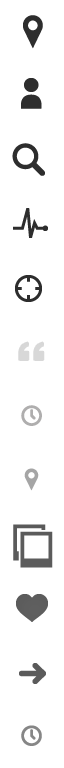
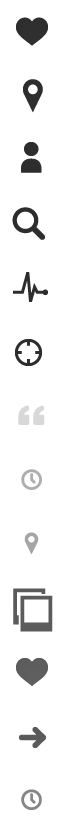
Fancy topbars for image streams

Changed region(s): [[0.1875, 0.0938, 0.8438, 0.9062], [0.25, 0.0, 0.75, 0.0625], [0.3125, 0.9375, 0.6562, 1.0]]

diff --git a/css/theme.css b/css/theme.css
@@ -225,6 +225,17 @@ hr {
   width: 32px;
   background-position: -63px 1px;
 }
+.image-streams {
+  list-style: none;
+  padding: 0;
+  margin: 0;
+  margin-bottom: 8px;
+  margin-top: -8px;
+}
+.image-streams .image-stream {
+  list-style: none;
+  padding: none;
+}
 /*
 * JQuery Mob - Custom 
 *   Some basics
@@ -554,6 +565,9 @@ input.ui-input-text, textarea.ui-input-text {
   background: none;
   line-height: 32px;
 }
+.ui-bar .ui-btn-text {
+  display: block;
+}
 .ui-bar .ui-btn-right {
   position: absolute;
   right: 4px;
@@ -566,6 +580,12 @@ input.ui-input-text, textarea.ui-input-text {
   -moz-border-radius-topright: 8px;
   -webkit-border-top-right-radius: 8px;
   border-top-right-radius: 8px;
+  -moz-border-radius-bottomleft: 0px;
+  -webkit-border-bottom-left-radius: 0px;
+  border-bottom-left-radius: 0px;
+  -moz-border-radius-bottomright: 0px;
+  -webkit-border-bottom-right-radius: 0px;
+  border-bottom-right-radius: 0px;
 }
 .ui-bar.top-left-arrow {
   -moz-border-radius-topleft: 8px;
@@ -574,6 +594,35 @@ input.ui-input-text, textarea.ui-input-text {
   -moz-border-radius-topright: 8px;
   -webkit-border-top-right-radius: 8px;
   border-top-right-radius: 8px;
+  -moz-border-radius-bottomleft: 0px;
+  -webkit-border-bottom-left-radius: 0px;
+  border-bottom-left-radius: 0px;
+  -moz-border-radius-bottomright: 0px;
+  -webkit-border-bottom-right-radius: 0px;
+  border-bottom-right-radius: 0px;
+  text-align: left;
+}
+.ui-bar.top-left-arrow .ui-icon {
+  right: -2px;
+}
+.ui-bar.top-left-arrow .ui-btn-text {
+  padding-left: 20px;
+}
+.ui-bar.top-left-arrow .extra-icons {
+  right: auto;
+  left: -8px;
+  top: -7px;
+  margin: 0;
+  height: 32px;
+  width: 32px;
+}
+.ui-bar.top-left-arrow .image-time {
+  position: relative;
+  padding-left: 20px;
+  color: #666666;
+}
+.ui-bar.top-left-arrow .image-time .ui-icon-clock {
+  top: -9px;
 }
 .ui-bar.bottom-centered-arrow {
   -moz-border-radius-bottomleft: 8px;
@@ -582,6 +631,54 @@ input.ui-input-text, textarea.ui-input-text {
   -moz-border-radius-bottomright: 8px;
   -webkit-border-bottom-right-radius: 8px;
   border-bottom-right-radius: 8px;
+}
+.arrow-right {
+  position: absolute!important;
+  right: 0!important;
+  left: auto!important;
+}
+.extra-icons {
+  height: 32px;
+  width: 32px;
+}
+.extra-icons .ui-icon-heart, .extra-icons.ui-icon-heart {
+  background-position: 0 0px;
+}
+.extra-icons .ui-icon-venue, .extra-icons.ui-icon-venue {
+  background-position: 0 -32px;
+}
+.extra-icons .ui-icon-clock, .extra-icons.ui-icon-clock {
+  background-position: 0 -64px;
+}
+.extra-icons .ui-icon-search, .extra-icons.ui-icon-search {
+  background-position: 0 -96px;
+}
+.extra-icons .ui-icon-activity, .extra-icons.ui-icon-activity {
+  background-position: 0 -128px;
+}
+.extra-icons .ui-icon-location, .extra-icons.ui-icon-location {
+  background-position: 0 -160px;
+}
+.extra-icons .ui-icon-quote, .extra-icons.ui-icon-quote {
+  background-position: 0 -192px;
+}
+.extra-icons .ui-icon-clocksmall, .extra-icons.ui-icon-clocksmall {
+  background-position: 0 -224px;
+}
+.extra-icons .ui-icon-venuesmall, .extra-icons.ui-icon-venuesmall {
+  background-position: 0 -256px;
+}
+.extra-icons .ui-icon-feed, .extra-icons.ui-icon-feed {
+  background-position: 0 -288px;
+}
+.extra-icons .ui-icon-favs, .extra-icons.ui-icon-favs {
+  background-position: 0 -320px;
+}
+.extra-icons .ui-icon-link, .extra-icons.ui-icon-link {
+  background-position: 0 -352px;
+}
+.extra-icons .ui-icon-clock, .extra-icons.ui-icon-clock {
+  background-position: 0 -384px;
 }
 .ui-navbar {
   margin: -8px -8px 0 -8px;
@@ -1010,7 +1107,7 @@ input.ui-input-text, textarea.ui-input-text {
 .image-item-block .image-description .ui-icon-quote {
   display: inline-block;
   height: 15px;
-  background-position: -6px -168px;
+  background-position: -6px -200px;
 }
 .image-item-block .image-description .goto-spot {
   color: #999999;
@@ -1387,6 +1484,11 @@ input.ui-input-text, textarea.ui-input-text {
 * @uploading - PAGE 
 */.upload-progress-header {
   padding: 8px;
+  height: 108px;
+  overflow: hidden;
+  -moz-box-shadow: inset 5px -16px 26px rgba(0, 0, 0, 0.2);
+  -webkit-box-shadow: inset 5px -16px 26px rgba(0, 0, 0, 0.2);
+  box-shadow: inset 5px -16px 26px rgba(0, 0, 0, 0.2);
 }
 .upload-progress-header .upload-image-thumb-gall {
   position: absolute;
@@ -1406,7 +1508,7 @@ input.ui-input-text, textarea.ui-input-text {
 .upload-progress-header .upload-info-block .ui-icon-quote {
   display: inline-block;
   height: 15px;
-  background-position: -6px -168px;
+  background-position: -6px -200px;
   width: 20px;
 }
 .upload-progress-header .upload-info-block .upload-image-venue a {

diff --git a/css/theme.less b/css/theme.less
@@ -177,7 +177,19 @@ hr{
     }
 }
 
-
+.image-streams{
+    list-style: none;
+    padding: 0;
+    margin: 0;
+    margin-bottom: 8px;
+    margin-top: -8px;
+    .image-stream{
+        list-style: none;
+        padding: none;
+    }
+   
+    
+}
 
 
 /*
@@ -538,7 +550,9 @@ fieldset.ui-controlgroup{
         background: none;
         line-height: 32px;
     }
-    
+    .ui-btn-text{
+        display: block;
+    }
     
     .ui-btn-right{
         position: absolute;
@@ -547,17 +561,67 @@ fieldset.ui-controlgroup{
     }
     
     &.top-no-arrow{
-        .corner-top (@corner-page-element-rounded); 
+        .corner-top (@corner-page-element-rounded);
+        .corner-bottom (@corner-not-rounded); 
     }
     &.top-left-arrow{
         .corner-top (@corner-page-element-rounded); 
+        .corner-bottom (@corner-not-rounded);
+        text-align: left;
+        .ui-icon {
+            right: -2px;
+        }
+        .ui-btn-text{
+            padding-left: 20px;
+        }
+        .extra-icons{
+            right: auto;
+            left: -8px;
+            top: -7px;
+            margin: 0;
+            height: @gfx-extra-icon-sprite-grid;
+            width: @gfx-extra-icon-sprite-grid;
+        }
+        
+        .image-time{
+            position: relative;
+            padding-left: 20px;
+            color: @color-txt-medium-on-light;
+            .ui-icon-clock{
+                top: -9px;
+            }
+        }
     }
     &.bottom-centered-arrow{
         .corner-bottom (@corner-page-element-rounded); 
     }
 }
 
+.arrow-right{
+    position: absolute!important;
+    right: 0!important;
+    left: auto!important;
+}
 
+.extra-icons{
+    height: @gfx-extra-icon-sprite-grid;
+    width: @gfx-extra-icon-sprite-grid;
+
+    .ui-icon-heart,&.ui-icon-heart{background-position: @ei-offset-x @gfx-extra-icon-sprite-heart-y;}
+    .ui-icon-venue,&.ui-icon-venue{background-position: @ei-offset-x @gfx-extra-icon-sprite-venue-y;}
+    .ui-icon-clock,&.ui-icon-clock{background-position: @ei-offset-x @gfx-extra-icon-sprite-person-y;}
+    .ui-icon-search,&.ui-icon-search{background-position: @ei-offset-x @gfx-extra-icon-sprite-search-y;}
+    .ui-icon-activity,&.ui-icon-activity{background-position: @ei-offset-x @gfx-extra-icon-sprite-activity-y;}
+    .ui-icon-location,&.ui-icon-location{background-position: @ei-offset-x @gfx-extra-icon-sprite-location-y;}
+    .ui-icon-quote,&.ui-icon-quote{background-position: @ei-offset-x @gfx-extra-icon-sprite-quote-y;}
+    .ui-icon-clocksmall,&.ui-icon-clocksmall{background-position: @ei-offset-x @gfx-extra-icon-sprite-clocksmall-y;}
+    .ui-icon-venuesmall,&.ui-icon-venuesmall{background-position: @ei-offset-x @gfx-extra-icon-sprite-venuesmall-y;}
+    .ui-icon-feed,&.ui-icon-feed{background-position: @ei-offset-x @gfx-extra-icon-sprite-feed-y;}
+    .ui-icon-favs,&.ui-icon-favs{background-position: @ei-offset-x @gfx-extra-icon-sprite-favs-y;}
+    .ui-icon-link,&.ui-icon-link{background-position: @ei-offset-x @gfx-extra-icon-sprite-link-y;}
+    .ui-icon-clock, &.ui-icon-clock{background-position: @ei-offset-x @gfx-extra-icon-sprite-clock-y;}
+    
+}
 
 .ui-navbar{
     margin: -@padding-page-inset -@padding-page-inset 0 -@padding-page-inset;
@@ -981,7 +1045,7 @@ fieldset.ui-controlgroup{
         .ui-icon-quote{
             display: inline-block;
             height: @txt-size-base;
-            background-position: -6px -168px;
+            background-position: -6px @gfx-extra-icon-sprite-quote-y - 8;
         }
     
         .goto-spot{
@@ -1367,6 +1431,9 @@ fieldset.ui-controlgroup{
 
 .upload-progress-header{
     padding: @padding-page-inset;
+    height: 108px;
+    overflow:hidden;
+    .box-shadow(inset 5px -16px 26px rgba(0, 0, 0, 0.2));
    
     .upload-image-thumb-gall{
         position: absolute;
@@ -1387,7 +1454,8 @@ fieldset.ui-controlgroup{
          .ui-icon-quote{
              display: inline-block;
              height: @txt-size-base;
-             background-position: -6px -168px;
+             background-position: -6px @gfx-extra-icon-sprite-quote-y - 8;
+             
              width: 20px;
          }
          

diff --git a/css/sprites.less b/css/sprites.less
@@ -122,15 +122,20 @@
 @gfx-extra-icon-sprite-grid: 32px;
 
 /* Vertical Layout of Icons */
-@gfx-extra-icon-sprite-venue-y:         -0 * @gfx-extra-icon-sprite-grid; 
-@gfx-extra-icon-sprite-person-y:        -1 * @gfx-extra-icon-sprite-grid;
-@gfx-extra-icon-sprite-search-y:        -2 * @gfx-extra-icon-sprite-grid;
-@gfx-extra-icon-sprite-activity-y:      -3 * @gfx-extra-icon-sprite-grid;
-@gfx-extra-icon-sprite-location-y:      -4 * @gfx-extra-icon-sprite-grid; 
-@gfx-extra-icon-sprite-quote-y:         -5 * @gfx-extra-icon-sprite-grid;
-@gfx-extra-icon-sprite-clock-y:         -6 * @gfx-extra-icon-sprite-grid;
-@gfx-extra-icon-sprite-venue-y:         -7 * @gfx-extra-icon-sprite-grid;
-@gfx-extra-icon-sprite-feed-y:          -8 * @gfx-extra-icon-sprite-grid;
-@gfx-extra-icon-sprite-favs-y:          -9 * @gfx-extra-icon-sprite-grid;
-@gfx-extra-icon-sprite-link-y:          -10 * @gfx-extra-icon-sprite-grid;
+@gfx-extra-icon-sprite-heart-y:         -0 * @gfx-extra-icon-sprite-grid; 
+@gfx-extra-icon-sprite-venue-y:         -1 * @gfx-extra-icon-sprite-grid; 
+@gfx-extra-icon-sprite-person-y:        -2 * @gfx-extra-icon-sprite-grid;
+@gfx-extra-icon-sprite-search-y:        -3 * @gfx-extra-icon-sprite-grid;
+@gfx-extra-icon-sprite-activity-y:      -4 * @gfx-extra-icon-sprite-grid;
+@gfx-extra-icon-sprite-location-y:      -5 * @gfx-extra-icon-sprite-grid; 
+@gfx-extra-icon-sprite-quote-y:         -6 * @gfx-extra-icon-sprite-grid;
+@gfx-extra-icon-sprite-clocksmall-y:    -7 * @gfx-extra-icon-sprite-grid;
+@gfx-extra-icon-sprite-venuesmall-y:    -8 * @gfx-extra-icon-sprite-grid;
+@gfx-extra-icon-sprite-feed-y:          -9 * @gfx-extra-icon-sprite-grid;
+@gfx-extra-icon-sprite-favs-y:          -10 * @gfx-extra-icon-sprite-grid;
+@gfx-extra-icon-sprite-link-y:          -11 * @gfx-extra-icon-sprite-grid;
+@gfx-extra-icon-sprite-clock-y:         -12 * @gfx-extra-icon-sprite-grid;
+
+
+@ei-offset-x: 0;
 

diff --git a/index.html b/index.html
@@ -1047,14 +1047,34 @@
                                     <span class="ui-icon"></span>
                                 </div>
                             </li>
-                            
                         </ul>
-                        
                     </div>
-                    
                 </div>
-                
+
             </div>
+            
+            
+            <ul class="image-streams">
+                <li class="image-stream">
+                   <a class="ui-bar top-left-arrow" data-role="button" data-iconpos="right" data-icon="arrow-r" data-theme="e">
+                       <span class="ui-icon ui-icon-heart extra-icons"></span>
+                       <em>nearby</em>
+                       <span class="image-tag">Image description</span>
+                       <span class="image-time small-text">
+                           <span class="ui-icon ui-icon-clock extra-icons"></span>2 days ago
+                        </span>
+                        
+                        
+                        
+                    </a>
+                    
+                </li>
+                
+                <li>
+                    
+                </li>
+                
+            </ul>
 
         </div>
 
